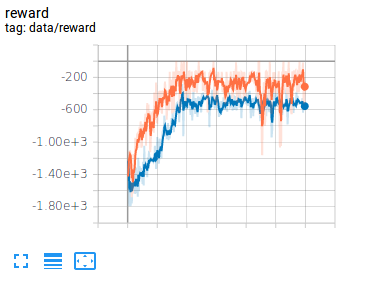
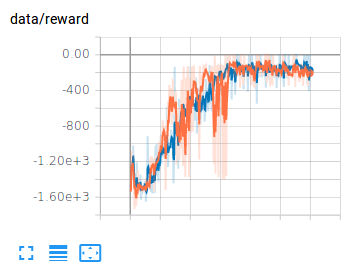
add pendulum td3 ddpg

Changed region(s): [[0.093, 0.1155, 0.9606, 0.8087], [0.031, 0.8664, 0.3099, 0.9819], [0.0, 0.0289, 0.2789, 0.1444]]

diff --git a/agent/continuous/seperate/ddpg.py b/agent/continuous/seperate/ddpg.py
@@ -61,7 +61,7 @@ class DDPG:
         rewards = np.asarray([e[2] for e in batch])
         next_states = np.asarray([e[3] for e in batch])
         dones = np.asarray([e[4] for e in batch])
-        target_action_input = np.clip(self.sess.run(self.target_actor.actor,feed_dict={self.target_actor.state:next_states}) + np.random.normal(0,0.01,[self.batch_size,self.action_size]),-1,1)
+        target_action_input = self.sess.run(self.target_actor.actor,feed_dict={self.target_actor.state:next_states})
         target_q_value = self.sess.run(self.target_critic.critic,feed_dict={self.target_critic.state:next_states,
                                                                             self.target_critic.action:target_action_input})
         targets = np.asarray([r + self.gamma * (1-d) * tv for r,tv,d in zip(rewards,target_q_value,dones)])
@@ -82,7 +82,7 @@ class DDPG:
 
     def get_action(self, state, epsilon):
         action = self.sess.run(self.actor.actor,feed_dict={self.actor.state:state})
-        return np.clip(action + epsilon*self.noise_generator.sample(), -1, 1)
+        return np.clip(action + epsilon*self.noise_generator.sample(), -1 + 1e-3, 1 - 1e-3)
 
     def get_sample(self,state,action,reward,next_state,done):
         self.memory.append((state,action,reward,next_state,done))

diff --git a/pendulum_td3.py b/pendulum_td3.py
@@ -20,7 +20,7 @@ critic = MLPTD3ContinousCritic('critic',state_size,output_size)
 agent = TD3(sess,state_size,output_size,1,1,target_actor,target_critic,actor,critic)
 sess.run(tf.global_variables_initializer())
 saver = tf.train.Saver()
-#saver.restore(sess,'pendulum_ddpg/model')
+#saver.restore(sess,'pendulum_td3/model')
 
 ep_len = 200
 ep = 0
@@ -34,24 +34,23 @@ while True:
     score = 0
     for t in range(ep_len):
         env.render()
-        action = agent.get_action([state], 0)
+        action = agent.get_action([state], epsilon)
 
         action = action[0]
         next_state, reward, done, _ = env.step(clip * action)
 
         score += reward
-        reward -= 0.1*np.abs(action)
 
         agent.get_sample(state,action,reward,next_state,done)
 
         state = next_state
         if len(agent.memory) >= 1000:
             agent.train_model()
-
+    
     agent.noise_generator.reset()
     if len(agent.memory) >= 1000:
         epsilon *= 0.995
     if ep < 300:
         print(ep, score, epsilon)
         writer.add_scalar('data/reward', score, ep)
-        saver.save(sess, 'pendulum_ddpg/model')
+        saver.save(sess, 'pendulum_td3/model')

diff --git a/bipedalwalker_ddpg.py b/bipedalwalker_ddpg.py
@@ -1,5 +1,4 @@
 import gym
-from agent.continuous.seperate.ppo import PPO
 from agent.continuous.seperate.ddpg import DDPG
 from agent import utils
 from example_model.policy.mlp.continuous import MLPDDPGContinuousActor
@@ -35,13 +34,13 @@ while True:
     score = 0
     while not done:
 
-        if ep % 10 == 0:
-            env.render()
+        #if ep % 10 == 0:
+        #    env.render()
         #env.render()
         action = agent.get_action([state], epsilon)
 
         action = action[0]
-        next_state, reward, done, _ = env.step(clip * action)
+        next_state, reward, done, _ = env.step(action)
 
         score += reward
 
@@ -56,9 +55,11 @@ while True:
     if len(agent.memory) >= 10000 and epsilon >= 0.01:
         epsilon *= 0.999
         epsilon -= 0.000001
+    print(ep, score)
     if ep % 10 == 0:
         update_step += 1
         print(update_step, np.mean(scores), epsilon)
-        writer.add_scalar('data/reward', score, update_step)
+        if update_step < 600:
+            writer.add_scalar('data/reward', score, update_step)
         saver.save(sess, 'bipedalwalker_ddpg/model')
         scores = []

diff --git a/bipedalwalker_td3.py b/bipedalwalker_td3.py
@@ -1,5 +1,4 @@
 import gym
-from agent.continuous.seperate.ppo import PPO
 from agent.continuous.seperate.td3 import TD3
 from agent import utils
 from example_model.policy.mlp.continuous import MLPDDPGContinuousActor
@@ -41,7 +40,7 @@ while True:
         action = agent.get_action([state], epsilon)
 
         action = action[0]
-        next_state, reward, done, _ = env.step(clip * action)
+        next_state, reward, done, _ = env.step(action)
 
         score += reward
 
@@ -60,7 +59,8 @@ while True:
     if ep % 10 == 0:
         update_step += 1
         print(update_step, np.mean(scores), epsilon)
-        writer.add_scalar('data/reward_per_episode', np.mean(scores), update_step)
+        if update_step < 300:
+            writer.add_scalar('data/reward', np.mean(scores), update_step)
         saver.save(sess, 'bipedalwalker_td3/model')
         scores = []
     

diff --git a/pendulum_ddpg.py b/pendulum_ddpg.py
@@ -33,14 +33,13 @@ while True:
     total_state, total_reward, total_done, total_next_state, total_action = [], [], [], [], []
     score = 0
     for t in range(ep_len):
-        env.render()
-        action = agent.get_action([state], 0)
+        #env.render()
+        action = agent.get_action([state], epsilon)
 
         action = action[0]
         next_state, reward, done, _ = env.step(clip * action)
 
         score += reward
-        reward -= 0.1*np.abs(action)
 
         agent.get_sample(state,action,reward,next_state,done)
 

diff --git a/agent/continuous/seperate/__init__.py b/agent/continuous/seperate/__init__.py
@@ -1,2 +1,2 @@
-from agent.continuous.seperate.ppo import PPO
 from agent.continuous.seperate.ddpg import DDPG
+from agent.continuous.seperate.td3 import TD3

diff --git a/README.md b/README.md
@@ -18,7 +18,7 @@ Discrete Action CNN - Breakout
 Algorithms
 
 ```
-Continuous Action MLP - DDPG, TRPO, PPO
+Continuous Action MLP - DDPG, TD3
 Discrete Action MLP - Vanilla PG, A2C, PPO, DQN, QRDQN, IQN
 Discrete Action CNN - Vanilla PG, A2C, PPO, DQN, QRDQN, IQN
 ```
@@ -68,7 +68,6 @@ tensorboardX
 - [x] Proximal Policy Optimization
 - [x] Deep Deterministic Policy Gradient
 - [x] Value based Reinforcement Learning
-- [ ] Actor Critic Experience Replay
 - [ ] Soft Actor Critic
 - [ ] LSTM train Algorithm
 
